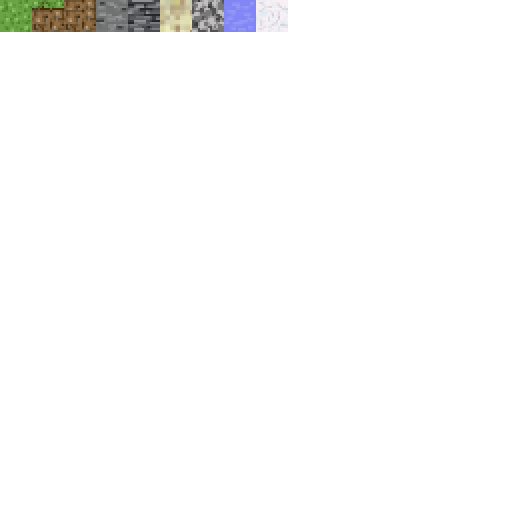
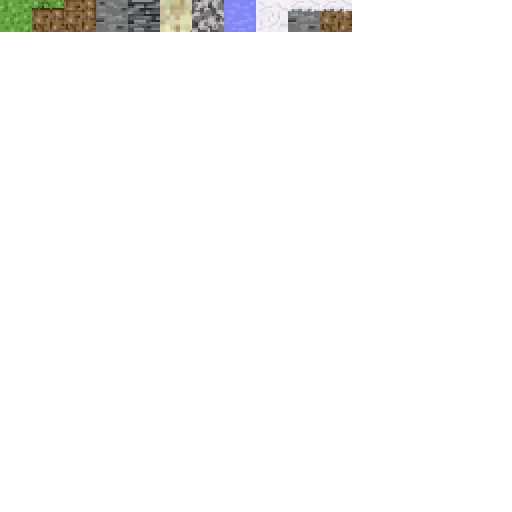
add: snow top stone/dirt

Changed region(s): [[0.5625, 0.0, 0.6875, 0.0625]]

diff --git a/src/chunk.cpp b/src/chunk.cpp
@@ -1,5 +1,4 @@
 #include "chunk.hpp"
-#include <algorithm>
 #include <glm/ext/vector_float3.hpp>
 #include <glm/gtc/noise.hpp>
 
@@ -23,8 +22,8 @@ void Chunk::setBlock(int x, int y, int z, BlockType type) {
 }
 
 void Chunk::generateChunk() {
-  const int SEA_LEVEL = 42;  // water below y
-  const int SNOW_LEVEL = 65; // snow above y
+  const int SEA_LEVEL = 48;  // water below y
+  const int SNOW_LEVEL = 78; // snow above y
   const float FREQ = 0.05f;  // noise frequency
   const float AMP = 29.0f;   // height amplitude
   const float OCTAVES = 4.0f;
@@ -86,20 +85,34 @@ void Chunk::generateChunk() {
         // Figure out top block
         if (y == perlin_height - 1) {
           int block_rand = (rand() % 100) + 1;
-          if (perlin_height >= SNOW_LEVEL) {
-            type = BlockType::SNOW;
+          if (perlin_height > SNOW_LEVEL) {
+            if (block_rand <= 95) {
+              type = BlockType::SNOW;
+            } else if (block_rand <= 98) {
+              type = BlockType::SNOW_STONE;
+            } else {
+              type = BlockType::SNOW_DIRT;
+            }
           } else if (perlin_height <= SEA_LEVEL) {
             type = BlockType::SAND;
           } else {
             if (y < SNOW_LEVEL) {
-              if (block_rand <= 5) {
-                type = BlockType::COBBLESTONE;
-              } else if (block_rand < 15) {
-                type = BlockType::STONE;
-              } else if (block_rand <= 85) {
-                type = BlockType::GRASS;
+              if (y > SNOW_LEVEL - 2) {
+                if (block_rand <= 80) {
+                  type = BlockType::SNOW_STONE;
+                } else {
+                  type = BlockType::SNOW_DIRT;
+                }
               } else {
-                type = BlockType::DIRT;
+                if (block_rand <= 5) {
+                  type = BlockType::COBBLESTONE;
+                } else if (block_rand <= 15) {
+                  type = BlockType::STONE;
+                } else if (block_rand <= 90) {
+                  type = BlockType::GRASS;
+                } else {
+                  type = BlockType::DIRT;
+                }
               }
             }
           }

diff --git a/src/block_data_manager.cpp b/src/block_data_manager.cpp
@@ -58,6 +58,12 @@ glm::vec2 BlockDataManager::getUV(BlockType type, BlockFace face) const {
   case BlockType::SNOW:
     type_str = "snow";
     break;
+  case BlockType::SNOW_STONE:
+    type_str = "snow-stone";
+    break;
+  case BlockType::SNOW_DIRT:
+    type_str = "snow-dirt";
+    break;
   default:
     type_str = "dirt";
     break;

diff --git a/inc/block_type.hpp b/inc/block_type.hpp
@@ -13,6 +13,8 @@ enum class BlockType : uint8_t {
   SAND,
   COBBLESTONE,
   SNOW,
+  SNOW_STONE,
+  SNOW_DIRT,
 };
 
 struct BlockInfo {
